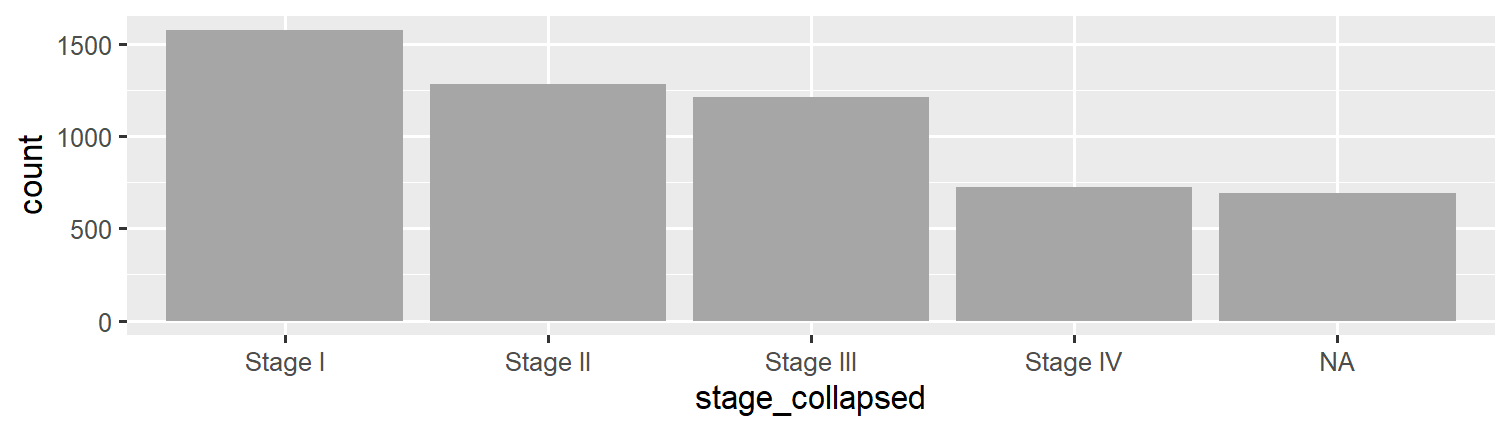
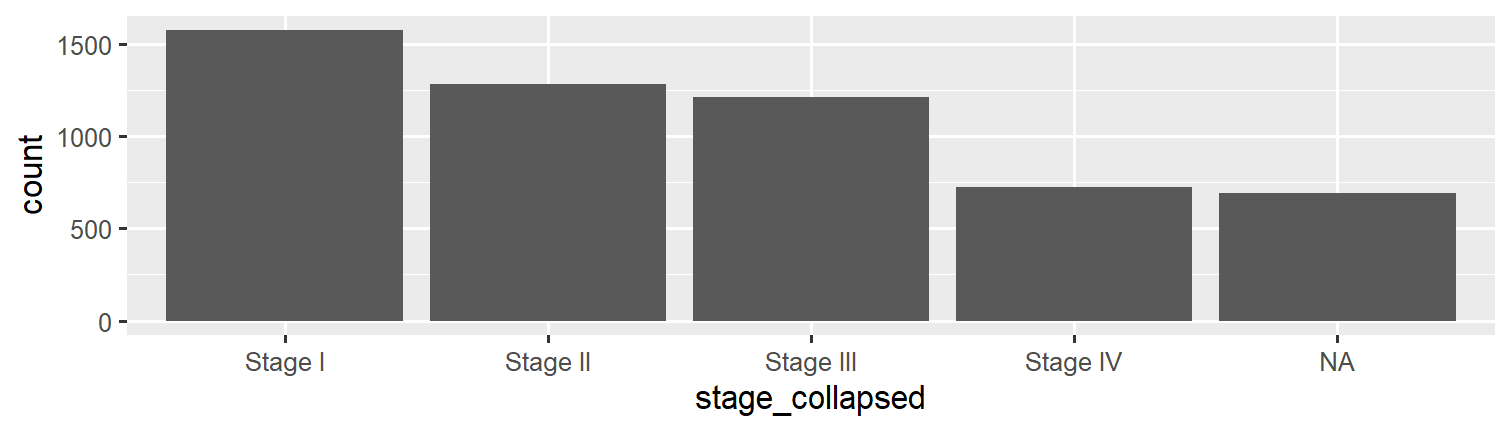
Fix plot height for flipbookr animation

diff --git a/slides/04_slide-datavisualization.html b/slides/04_slide-datavisualization.html
@@ -11,7 +11,7 @@
     <link href="libs/animate.css/animate.xaringan.css" rel="stylesheet" />
     <link href="libs/panelset/panelset.css" rel="stylesheet" />
     <script src="libs/panelset/panelset.js"></script>
-    <script type="application/json" id="xaringanExtra-editable-docid">{"id":"xcca91a88b3111eb9aa3856fba693a0f","expires":14}</script>
+    <script type="application/json" id="xaringanExtra-editable-docid">{"id":"x99913688b3611eba71a59e313b10f8c","expires":14}</script>
     <script src="libs/himalaya/himalaya.js"></script>
     <script src="libs/js-cookie/js.cookie.js"></script>
     <link href="libs/editable/editable.css" rel="stylesheet" />
@@ -291,8 +291,8 @@ ggplot(
 
 
 
-<div id="htmlwidget-760be0297f8e0b9c1aef" style="width:100%;height:auto;" class="datatables html-widget"></div>
-<script type="application/json" data-for="htmlwidget-760be0297f8e0b9c1aef">{"x":{"filter":"none","fillContainer":false,"data":[["geom_abline(), geom_hline(), geom_vline()","geom_bar(), geom_col()","geom_bin2d()","geom_blank()","geom_boxplot()","geom_contour(), geom_contour_filled()","geom_count()","geom_density()","geom_density_2d(), geom_density_2d_filled()","geom_dotplot()","geom_errorbarh()","geom_function()","geom_hex()","geom_freqpoly(), geom_histogram()","geom_jitter()","geom_crossbar(), geom_errorbar(), geom_linerange(), geom_pointrange()","geom_map()","geom_path(), geom_line(), geom_step()","geom_point()","geom_polygon()","geom_qq_line(), geom_qq()","geom_quantile()","geom_ribbon(), geom_area()","geom_rug()","geom_segment(), geom_curve()","geom_smooth()","geom_spoke()","geom_label(), geom_text()","geom_raster(), geom_rect(), geom_tile()","geom_violin()","coord_sf(), geom_sf(), geom_sf_label(), geom_sf_text()"],["Reference lines: horizontal, vertical, and diagonal","Bar charts","Heatmap of 2d bin counts","Draw nothing","A box and whiskers plot (in the style of Tukey)","2D contours of a 3D surface","Count overlapping points","Smoothed density estimates","Contours of a 2D density estimate","Dot plot","Horizontal error bars","Draw a function as a continuous curve","Hexagonal heatmap of 2d bin counts","Histograms and frequency polygons","Jittered points","Vertical intervals: lines, crossbars &amp; errorbars","Polygons from a reference map","Connect observations","Points","Polygons","A quantile-quantile plot","Quantile regression","Ribbons and area plots","Rug plots in the margins","Line segments and curves","Smoothed conditional means","Line segments parameterised by location, direction and distance","Text","Rectangles","Violin plot","Visualise sf objects"]],"container":"<table class=\"display\">\n  <thead>\n    <tr>\n      <th>geom<\/th>\n      <th>description<\/th>\n    <\/tr>\n  <\/thead>\n<\/table>","options":{"pageLength":6,"dom":"ftp","order":[],"autoWidth":false,"orderClasses":false,"lengthMenu":[6,10,25,50,100]}},"evals":[],"jsHooks":[]}</script>
+<div id="htmlwidget-fe509aecb641538e234e" style="width:100%;height:auto;" class="datatables html-widget"></div>
+<script type="application/json" data-for="htmlwidget-fe509aecb641538e234e">{"x":{"filter":"none","fillContainer":false,"data":[["geom_abline(), geom_hline(), geom_vline()","geom_bar(), geom_col()","geom_bin2d()","geom_blank()","geom_boxplot()","geom_contour(), geom_contour_filled()","geom_count()","geom_density()","geom_density_2d(), geom_density_2d_filled()","geom_dotplot()","geom_errorbarh()","geom_function()","geom_hex()","geom_freqpoly(), geom_histogram()","geom_jitter()","geom_crossbar(), geom_errorbar(), geom_linerange(), geom_pointrange()","geom_map()","geom_path(), geom_line(), geom_step()","geom_point()","geom_polygon()","geom_qq_line(), geom_qq()","geom_quantile()","geom_ribbon(), geom_area()","geom_rug()","geom_segment(), geom_curve()","geom_smooth()","geom_spoke()","geom_label(), geom_text()","geom_raster(), geom_rect(), geom_tile()","geom_violin()","coord_sf(), geom_sf(), geom_sf_label(), geom_sf_text()"],["Reference lines: horizontal, vertical, and diagonal","Bar charts","Heatmap of 2d bin counts","Draw nothing","A box and whiskers plot (in the style of Tukey)","2D contours of a 3D surface","Count overlapping points","Smoothed density estimates","Contours of a 2D density estimate","Dot plot","Horizontal error bars","Draw a function as a continuous curve","Hexagonal heatmap of 2d bin counts","Histograms and frequency polygons","Jittered points","Vertical intervals: lines, crossbars &amp; errorbars","Polygons from a reference map","Connect observations","Points","Polygons","A quantile-quantile plot","Quantile regression","Ribbons and area plots","Rug plots in the margins","Line segments and curves","Smoothed conditional means","Line segments parameterised by location, direction and distance","Text","Rectangles","Violin plot","Visualise sf objects"]],"container":"<table class=\"display\">\n  <thead>\n    <tr>\n      <th>geom<\/th>\n      <th>description<\/th>\n    <\/tr>\n  <\/thead>\n<\/table>","options":{"pageLength":6,"dom":"ftp","order":[],"autoWidth":false,"orderClasses":false,"lengthMenu":[6,10,25,50,100]}},"evals":[],"jsHooks":[]}</script>
 
 ---
 ### Statistics layer
@@ -353,12 +353,12 @@ layer_data(p1, i = 1)
 ## 3 1211  1211    1 3       FALSE     1     3    0 1211 2.55 3.45
 ## 4  723   723    1 4       FALSE     1     4    0  723 3.55 4.45
 ## 5  691   691    1 5       FALSE     1     5    0  691 4.55 5.45
-##   colour    fill size linetype alpha
-## 1   &lt;NA&gt; #A6A6A6  0.5        1    NA
-## 2   &lt;NA&gt; #A6A6A6  0.5        1    NA
-## 3   &lt;NA&gt; #A6A6A6  0.5        1    NA
-## 4   &lt;NA&gt; #A6A6A6  0.5        1    NA
-## 5   &lt;NA&gt; #A6A6A6  0.5        1    NA
+##   colour   fill size linetype alpha
+## 1     NA grey35  0.5        1    NA
+## 2     NA grey35  0.5        1    NA
+## 3     NA grey35  0.5        1    NA
+## 4     NA grey35  0.5        1    NA
+## 5     NA grey35  0.5        1    NA
 ```
 ---
 &gt; Every `geom` has a default `stat`, and every `stat` has a default `geom`
@@ -395,8 +395,8 @@ Typically we can use geoms without specifying stats but we might need to explici
 
 
 
-<div id="htmlwidget-eef87b0d85730f5e8370" style="width:100%;height:auto;" class="datatables html-widget"></div>
-<script type="application/json" data-for="htmlwidget-eef87b0d85730f5e8370">{"x":{"filter":"none","fillContainer":false,"data":[["stat_count()","stat_bin_2d()","stat_boxplot()","stat_contour(), stat_contour_filled()","stat_sum()","stat_density()","stat_density_2d(), stat_density_2d_filled()","stat_function()","stat_bin_hex()","stat_bin()","stat_qq_line(), stat_qq()","stat_quantile()","stat_smooth()","stat_ydensity()","stat_sf()","stat_ecdf()","stat_ellipse()","geom_function(), stat_function()","stat_identity()","stat_summary_2d(), stat_summary_hex()","stat_summary_bin(), stat_summary()","stat_unique()","stat_sf_coordinates()","after_stat(), after_scale(), stage()"],["Bar charts","Heatmap of 2d bin counts","A box and whiskers plot (in the style of Tukey)","2D contours of a 3D surface","Count overlapping points","Smoothed density estimates","Contours of a 2D density estimate","Draw a function as a continuous curve","Hexagonal heatmap of 2d bin counts","Histograms and frequency polygons","A quantile-quantile plot","Quantile regression","Smoothed conditional means","Violin plot","Visualise sf objects","Compute empirical cumulative distribution","Compute normal data ellipses","Draw a function as a continuous curve","Leave data as is","Bin and summarise in 2d (rectangle &amp; hexagons)","Summarise y values at unique/binned x","Remove duplicates","Extract coordinates from 'sf' objects","Control aesthetic evaluation"]],"container":"<table class=\"display\">\n  <thead>\n    <tr>\n      <th>stat<\/th>\n      <th>description<\/th>\n    <\/tr>\n  <\/thead>\n<\/table>","options":{"pageLength":6,"dom":"ftp","order":[],"autoWidth":false,"orderClasses":false,"lengthMenu":[6,10,25,50,100]}},"evals":[],"jsHooks":[]}</script>
+<div id="htmlwidget-30271ed6ff056ca36a9d" style="width:100%;height:auto;" class="datatables html-widget"></div>
+<script type="application/json" data-for="htmlwidget-30271ed6ff056ca36a9d">{"x":{"filter":"none","fillContainer":false,"data":[["stat_count()","stat_bin_2d()","stat_boxplot()","stat_contour(), stat_contour_filled()","stat_sum()","stat_density()","stat_density_2d(), stat_density_2d_filled()","stat_function()","stat_bin_hex()","stat_bin()","stat_qq_line(), stat_qq()","stat_quantile()","stat_smooth()","stat_ydensity()","stat_sf()","stat_ecdf()","stat_ellipse()","geom_function(), stat_function()","stat_identity()","stat_summary_2d(), stat_summary_hex()","stat_summary_bin(), stat_summary()","stat_unique()","stat_sf_coordinates()","after_stat(), after_scale(), stage()"],["Bar charts","Heatmap of 2d bin counts","A box and whiskers plot (in the style of Tukey)","2D contours of a 3D surface","Count overlapping points","Smoothed density estimates","Contours of a 2D density estimate","Draw a function as a continuous curve","Hexagonal heatmap of 2d bin counts","Histograms and frequency polygons","A quantile-quantile plot","Quantile regression","Smoothed conditional means","Violin plot","Visualise sf objects","Compute empirical cumulative distribution","Compute normal data ellipses","Draw a function as a continuous curve","Leave data as is","Bin and summarise in 2d (rectangle &amp; hexagons)","Summarise y values at unique/binned x","Remove duplicates","Extract coordinates from 'sf' objects","Control aesthetic evaluation"]],"container":"<table class=\"display\">\n  <thead>\n    <tr>\n      <th>stat<\/th>\n      <th>description<\/th>\n    <\/tr>\n  <\/thead>\n<\/table>","options":{"pageLength":6,"dom":"ftp","order":[],"autoWidth":false,"orderClasses":false,"lengthMenu":[6,10,25,50,100]}},"evals":[],"jsHooks":[]}</script>
 
 ---
 ### Scales layer
